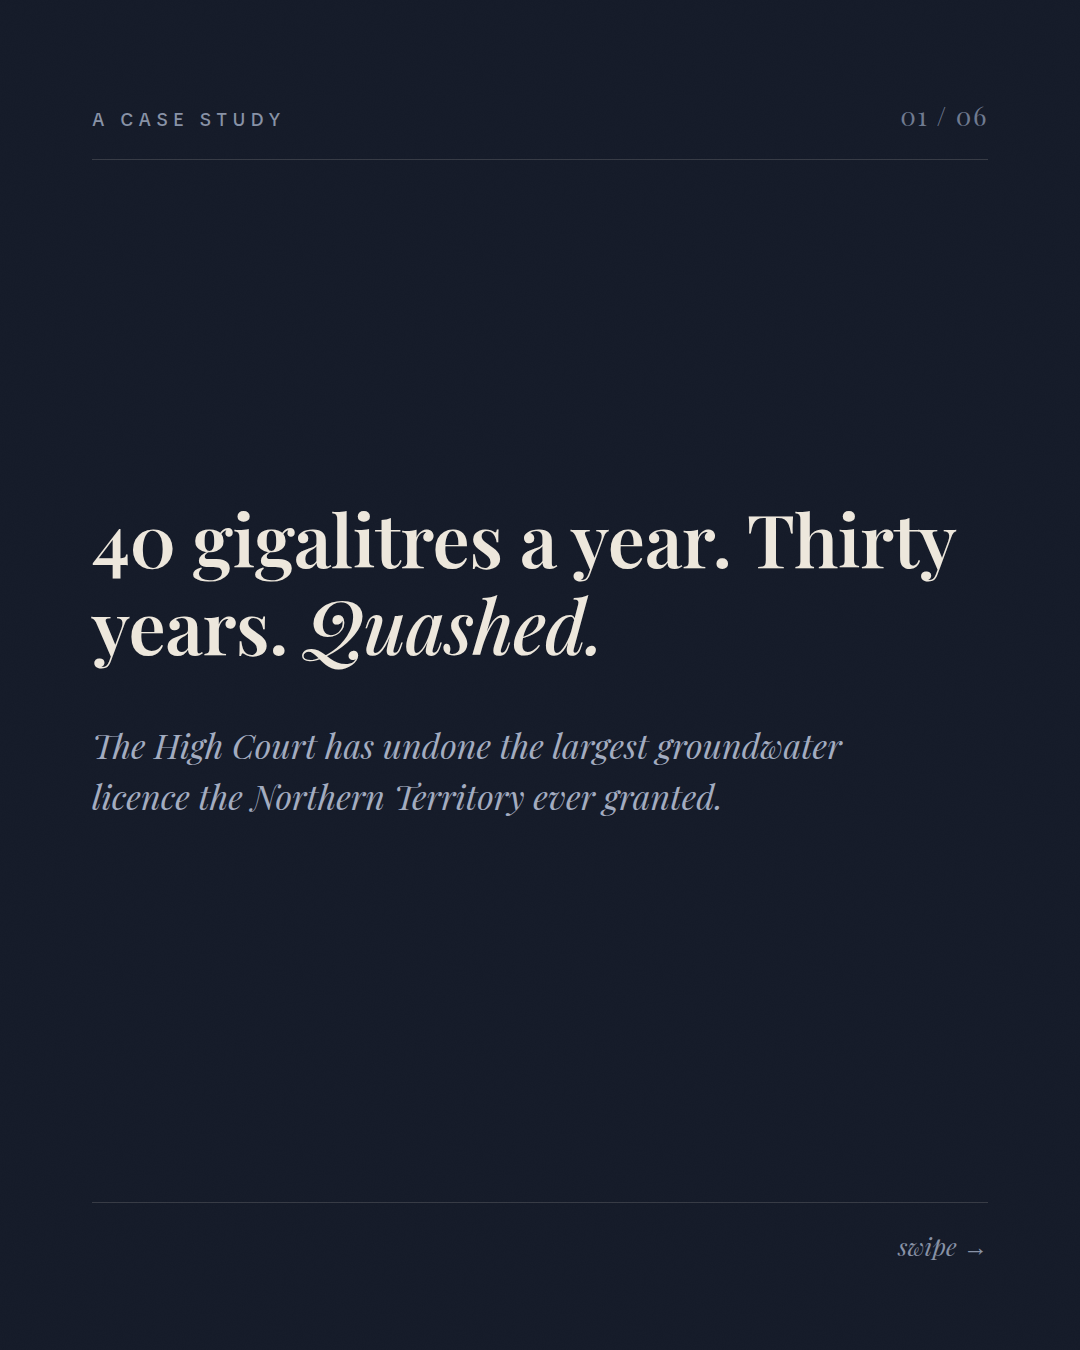
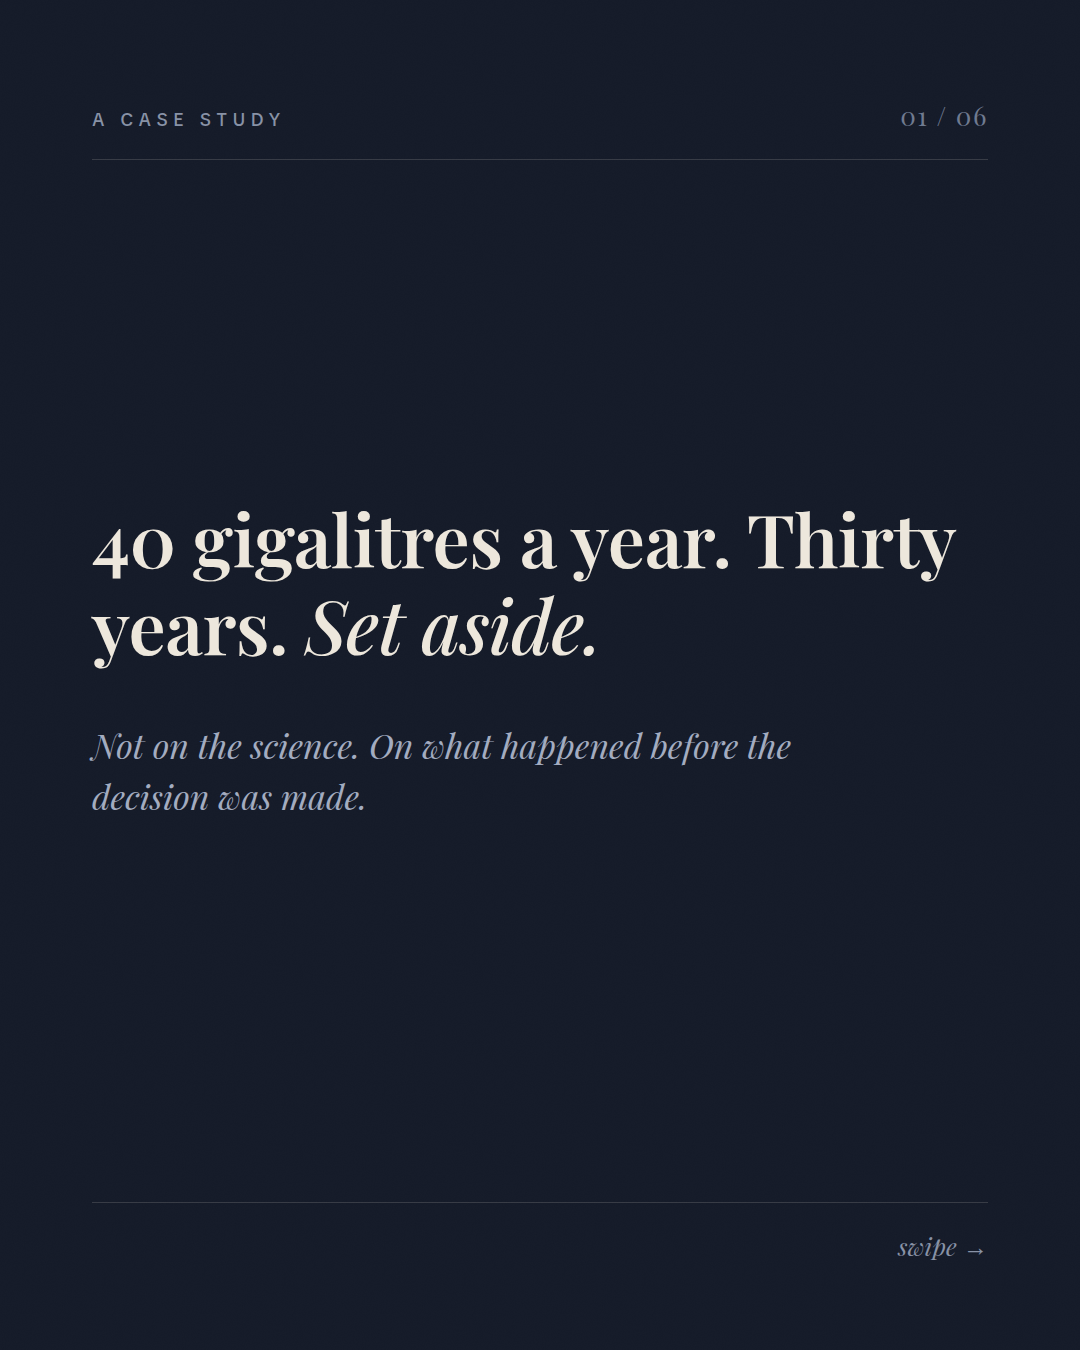
Apply confirmed only rule, strip unverified superlative from HCA 23 post
The 'largest groundwater licence ever granted in the NT' line was the Central
Land Council's characterisation, not a finding. Removed from slide 1, slide 6,
the caption, the LinkedIn post and the reel script. Retained in the brief only,
marked as not for publication.

Slide 1 now reads 'Set aside' with a subline about the ground of decision.
Rule recorded in CLAUDE.md: nothing publishes unless confirmed, hedged wording
is not a substitute for verification, and attribution does not rescue an
interested party's superlative.

Claude-Session: https://claude.ai/code/session_01JRjeUUcoRT5GxuTf3inkfN

Changed region(s): [[0.0917, 0.5289, 0.7639, 0.6222], [0.275, 0.4356, 0.55, 0.4978]]

diff --git a/tools/carousel/water.py b/tools/carousel/water.py
@@ -89,8 +89,8 @@ def slide(n, kicker, inner, cite="", light=False, swipe=False):
     (OUT / f"w{n:02d}.html").write_text(html)
 
 slide(1, "A Case Study",
-  '<div class="statement lg">40 gigalitres a year. Thirty years. <em>Quashed.</em></div>'
-  '<div class="sub">The High Court has undone the largest groundwater licence the Northern Territory ever granted.</div>',
+  '<div class="statement lg">40 gigalitres a year. Thirty years. <em>Set aside.</em></div>'
+  '<div class="sub">Not on the science. On what happened before the decision was made.</div>',
   swipe=True)
 
 slide(2, "The Facts",
@@ -119,7 +119,7 @@ slide(5, "The Principle",
 
 slide(6, "Why It Matters",
   '<div class="statement md">This is your admin law exam, in <em>real life.</em></div>'
-  '<div class="body"><p>Natural justice, mandatory considerations, jurisdictional error. The doctrine you get drilled on in second year just unwound the biggest water licence in the Territory.</p></div>',
+  '<div class="body"><p>Natural justice, mandatory considerations, jurisdictional error. The doctrine you get drilled on in second year just unwound a thirty year water licence.</p></div>',
   light=True, cite="General information only, not legal advice.")
 
 print("ok")

diff --git a/reports/assets/2026-08-10/POSTING-KIT.md b/reports/assets/2026-08-10/POSTING-KIT.md
@@ -12,7 +12,7 @@
 
 Thirty years of water. Undone by the step that came before the decision.
 
-The Northern Territory granted Fortune Agribusiness a licence to take up to 40 gigalitres of groundwater a year, for thirty years, at Singleton Station in the desert north of Alice Springs. On the Central Land Council's account it was the largest groundwater licence the Territory has ever issued.
+The Northern Territory granted Fortune Agribusiness a licence to take up to 40 gigalitres of groundwater a year, for thirty years, at Singleton Station in the desert north of Alice Springs. Under the Water Act, anything beyond ten years required the Minister to be satisfied of special circumstances.
 
 Mpwerempwer Aboriginal Corporation holds native title over that country. It challenged the grant.
 
@@ -50,7 +50,7 @@ General information only, not legal advice.
 
 A thirty year water entitlement has been set aside, and not on its merits.
 
-On 5 August the High Court quashed the licence granted to Fortune Agribusiness to extract up to 40 gigalitres of groundwater a year for thirty years at Singleton Station in the Northern Territory, and remitted the application to Territory decision makers. The Central Land Council describes it as the largest groundwater licence ever granted in the Territory.
+On 5 August the High Court set aside the licence granted to Fortune Agribusiness to extract up to 40 gigalitres of groundwater a year for thirty years at Singleton Station in the Northern Territory, and remitted the application to the Minister to be decided again according to law.
 
 The challenge was brought by Mpwerempwer Aboriginal Corporation, the registered native title body corporate for the land. A new condition was imposed requiring an assessment of the impact on Aboriginal cultural values. Fortune was notified of it and given two days to respond. The Corporation was not notified until after the licence had issued. The Court held it should have been heard first.
 
@@ -74,10 +74,10 @@ Details should be checked against the full judgment before relying on them.
 Forty gigalitres of groundwater. A year. For thirty years.
 
 **[0:05]**
-The Northern Territory granted it to a horticulture company in the desert north of Alice Springs. Reportedly the largest groundwater licence the Territory has ever issued.
+The Northern Territory granted it to a horticulture company in the desert north of Alice Springs. A term that long required the Minister to be satisfied of special circumstances.
 
 **[0:13]**
-Last Wednesday the High Court quashed it.
+Last Wednesday the High Court set it aside.
 
 **[0:16]**
 Not because of the water science. A new condition went to the company, which got two days to respond. The native title holders were told after the licence issued.
@@ -104,7 +104,7 @@ Full table in `reports/2026-08-10-daily-court-intelligence.md` section 3. Short 
 
 **Confirmed:** citation and date, licence set aside and remitted to the Minister, 40 GL per year for thirty years, Fortune Agribusiness Funds Management Pty Ltd at Singleton Station, s 60 *Water Act 1992* (NT), the special circumstances requirement for a term beyond ten years, the two day window given to Fortune, the Corporation being notified only after the licence issued, and the holding that it should have been heard first. Bench: Gageler CJ, Gordon, Edelman, Steward, Gleeson, Jagot and Beech-Jones JJ.
 
-**Attributed, not judicial:** "largest groundwater licence ever granted in the NT" is the Central Land Council's characterisation. The caption attributes it. Keep that attribution.
+**Removed entirely, 10 Aug:** the "largest groundwater licence ever granted in the NT" line. It was the Central Land Council's characterisation, not a finding, and under the confirmed only rule an advocacy group's superlative does not go on a slide even with attribution. It is gone from slide 1, slide 6, the caption, the LinkedIn post and the reel script. The case is strong enough on its verified numbers.
 
 **Still not verified:** whether the decision was unanimous. Nothing on the slides or in the caption asserts it either way.
 

diff --git a/reports/2026-08-10-daily-court-intelligence.md b/reports/2026-08-10-daily-court-intelligence.md
@@ -10,7 +10,9 @@ Covering the High Court sitting of **Wednesday 5 August 2026**, the most recent 
 ### Mpwerempwer Aboriginal Corporation RNTBC v Minister for Territory Families and Urban Housing (as delegate of the Minister for the Environment) [2026] HCA 23
 **High Court of Australia, 5 August 2026**
 
-**What happened.** The Northern Territory granted Fortune Agribusiness a licence to extract up to **40 gigalitres of groundwater a year for thirty years** at Singleton Station, in the desert north of Alice Springs, to develop what was reported as one of Australia's largest fruit and vegetable operations. The Central Land Council describes it as the largest groundwater licence ever granted in the Territory.
+**What happened.** The Northern Territory granted Fortune Agribusiness a licence to extract up to **40 gigalitres of groundwater a year for thirty years** at Singleton Station, in the desert north of Alice Springs, to develop a horticultural operation.
+
+*Not used in any published asset:* the Central Land Council has characterised the licence as the largest ever granted in the Territory. That is an interested party's superlative, not a finding, so under the confirmed only rule it stays in this brief and goes no further.
 
 **The statutory frame.** The licence was granted under s 60 of the *Water Act 1992* (NT). A licence for a period beyond ten years required the Minister to be satisfied that special circumstances justified it, and the Minister was required to take into account the protection of Aboriginal cultural values associated with water.
 

diff --git a/CLAUDE.md b/CLAUDE.md
@@ -73,6 +73,14 @@ Every line answers "what is in it for me", stated as an advantage: international
 
 **NEVER invent testimonials.** Do not write a quote, review or endorsement attributed to a student, intern, firm or staff member unless Niamh has supplied the real words. Fabricated testimonials are misleading and deceptive conduct under the Australian Consumer Law and the audience is lawyers. Build the slide with bracketed placeholders and a "PLACEHOLDER, DO NOT POST" footer, then ask her for the real quote.
 
+## Confirmed only
+
+Niamh's rule, 10 Aug 2026. **Nothing goes on a slide, in a caption, in a LinkedIn post or in a reel script unless it is confirmed.** Not "reported", not "on one account", not hedged with "apparently". If it cannot be confirmed, it does not go in. Write around it or leave it out.
+
+This includes **attributed superlatives from interested parties**. A land council, a regulator, a plaintiff's solicitor or a company saying something is the biggest, the first or the worst is not a confirmed fact, and attribution does not rescue it. Leave it out.
+
+Hedged wording is not a substitute for verification. If a fact needs a hedge to be safe, it is not ready to publish. Keep unconfirmed material in the brief's verification table only, clearly marked, so it is on the record without being broadcast.
+
 ## Editorial rules
 
 - Verify every case against primary/secondary sources; never invent citations, parties, judges or outcomes. Flag unverified details honestly in the brief.
